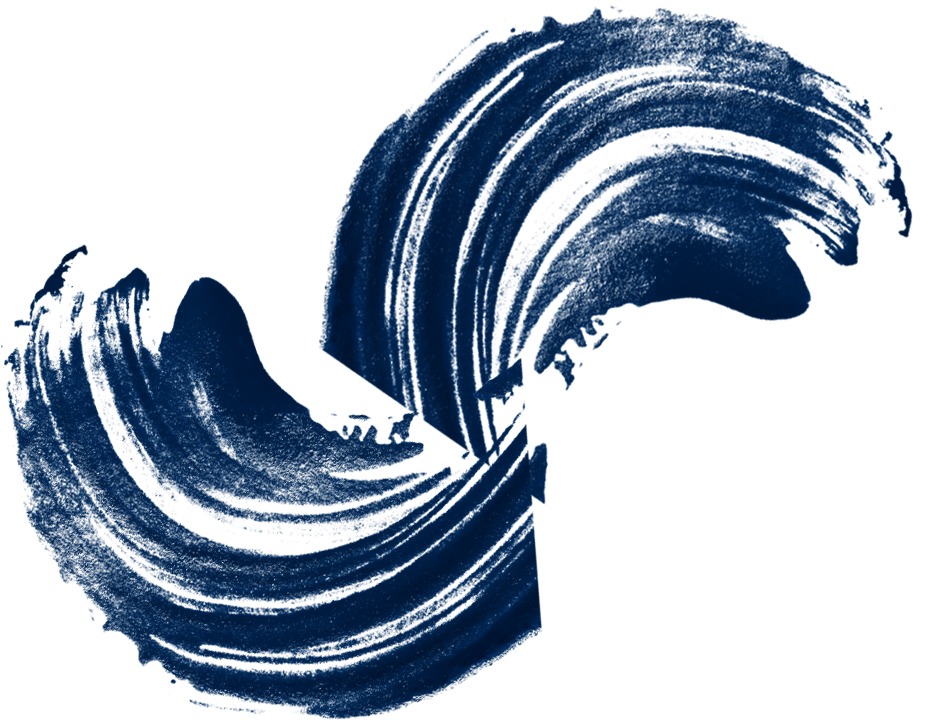
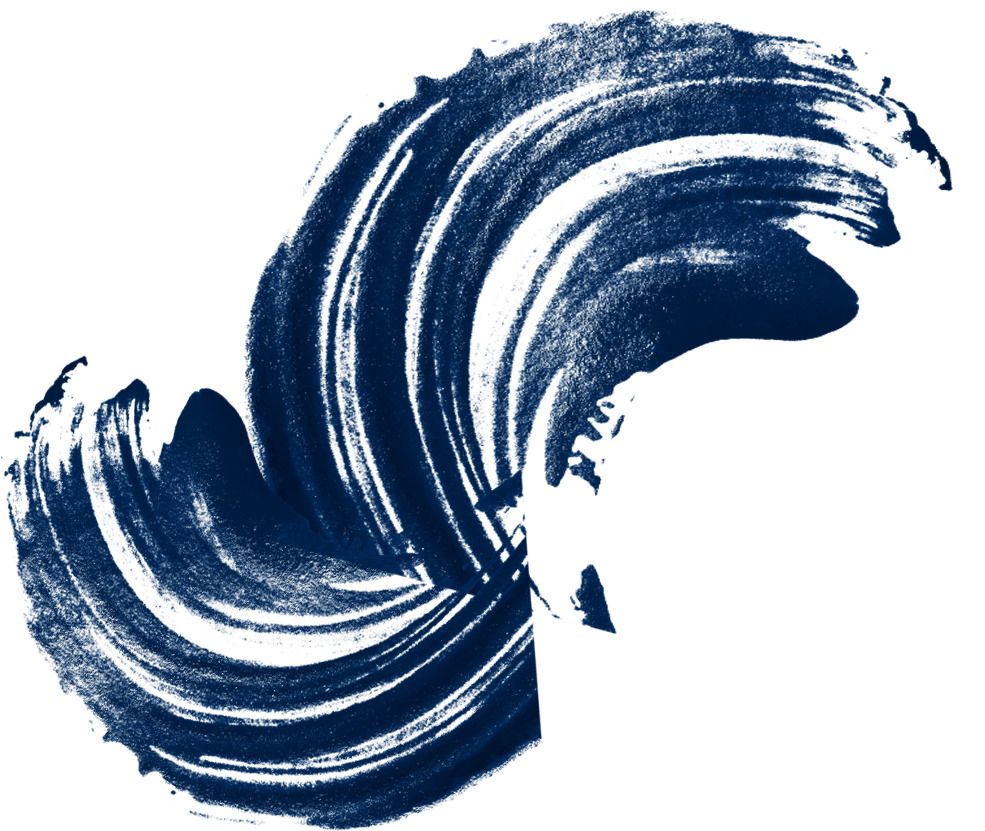
Improve spiral rush

diff --git a/src/assets/scss/util/__trumps.scss b/src/assets/scss/util/__trumps.scss
@@ -187,13 +187,13 @@ button {
         &:after {
             content: '';
             position: absolute;
-            left: -6%;
-            top: -20%;
+            left: -7%;
+            top: -26%;
             background-image: url('../../images/shapes/brush-blue-spiral.png');
             background-size: contain;
             background-repeat: no-repeat;
-            width: 125%;
-            height: 125%;
+            width: 128%;
+            height: 128%;
             z-index: -1;
         }
     }

diff --git a/src/containers/MeioAmbiente/index.js b/src/containers/MeioAmbiente/index.js
@@ -41,7 +41,7 @@ const MeioAmbiente = (props) => {
                             </div>
                         </div>
                         <div className="col-lg-6 pt-lg-5">
-                            <div class="markup pt-lg-5">
+                            <div class="markup">
                                 <h3>
                                     Título introdução
                                 </h3>
